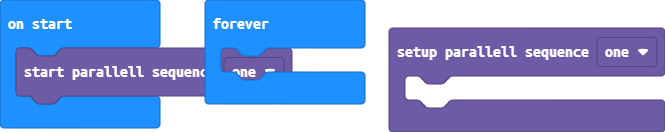
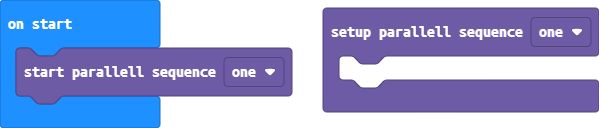
Update pxt.json, main.blocks, main.ts

diff --git a/main.ts b/main.ts
@@ -1,3 +1,4 @@
-basic.forever(function () {
+parallellSequences.parallellSequence(sequences.sequenceOne, function () {
 	
 })
+parallellSequences.startParallelSequence(sequences.sequenceOne)
